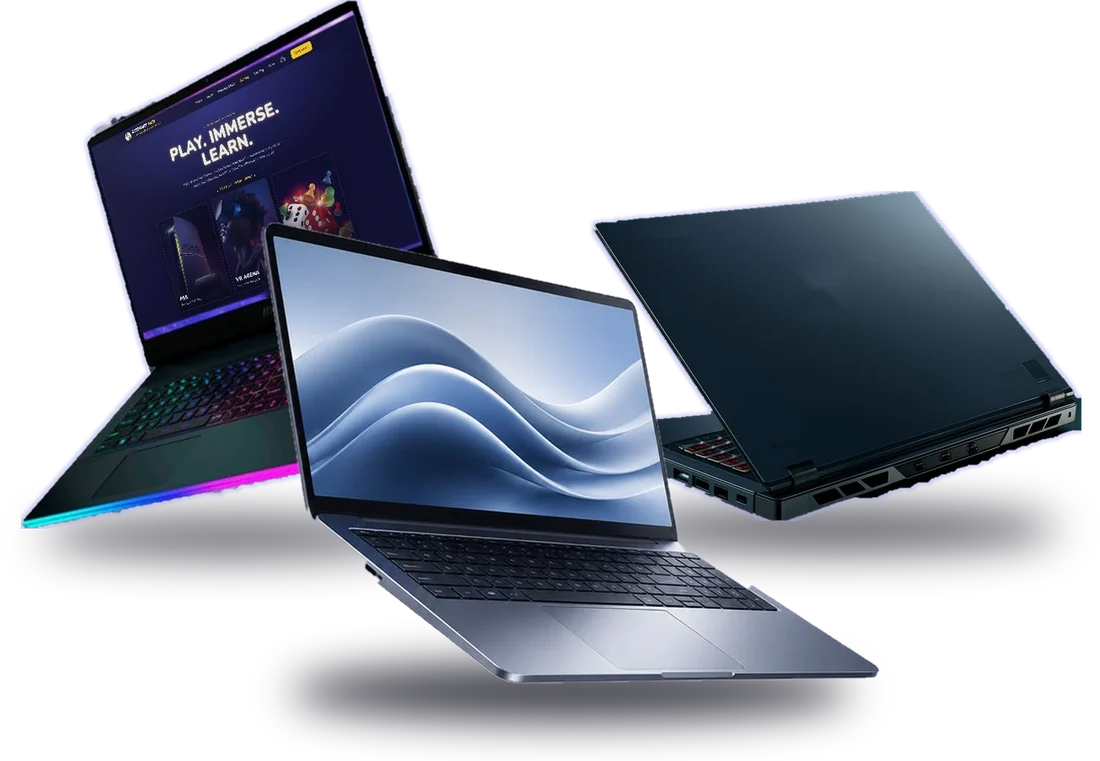
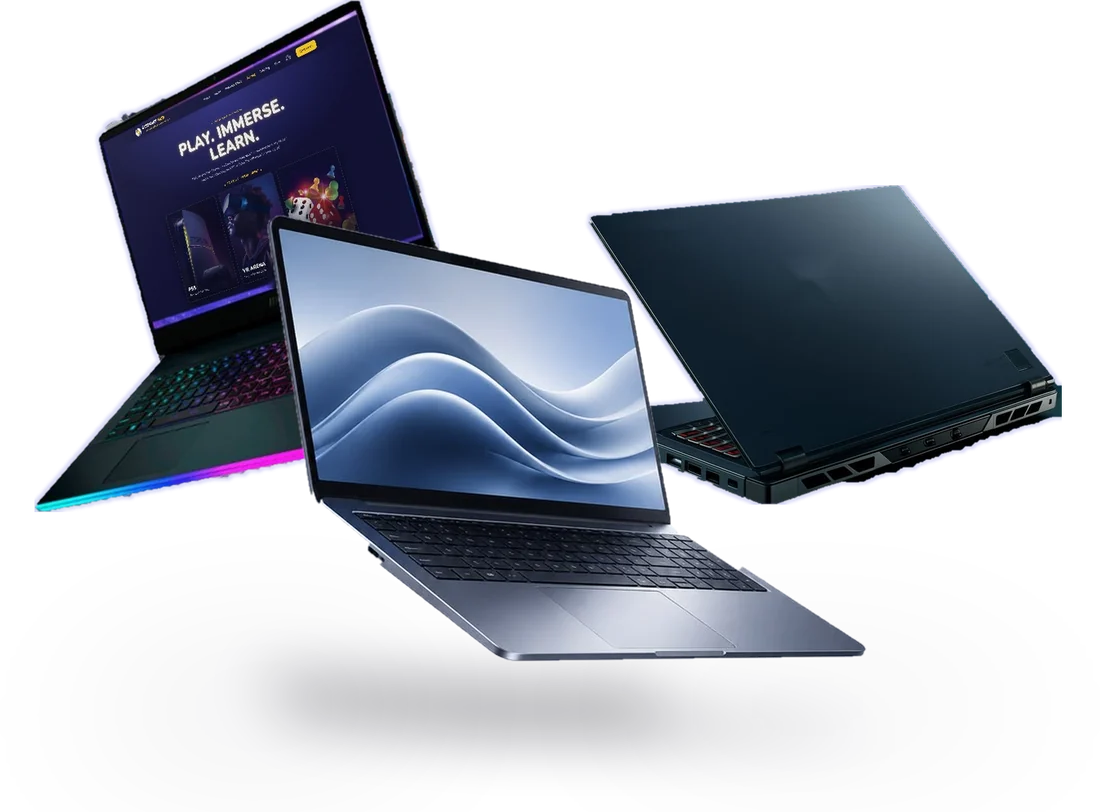
Shop hero: natural shadows, swoosh behind the laptop display
- Removed the drawn podium and the oval shadows; each laptop now casts a
  faint, very soft shadow from its own silhouette, fainter the higher it
  floats.
- The brand swoosh sits inside the hero (it was stretched across the whole
  dark area so only a corner showed), running behind the laptops like the
  About page, and fades out at the bottom instead of ending in a hard line.
- Home hero's Shop screen re-shot to match.

Claude-Session: https://claude.ai/code/session_01V4AdRnaABNZnaBTZbbiHrp

diff --git a/public/assets/css/style.css b/public/assets/css/style.css
@@ -1411,11 +1411,11 @@ main:has(.page-hero) .page-hero + .section { padding-top: 64px; }
 }
 
 /* ============================================================
-   SHOP LANDING — dark top: hero with podium, category cards, promo
+   SHOP LANDING — dark top: hero with a floating laptop display, category cards, promo
    ============================================================ */
 .shop-dark { position: relative; overflow: hidden; isolation: isolate; color: #fff; padding-bottom: 64px;
     background: radial-gradient(ellipse 60% 55% at 78% 22%, rgba(52, 52, 138, 0.85), transparent 70%), linear-gradient(180deg, #14143A 0%, #0E0E24 100%); }
-.shop-dark .page-hero-swoosh { opacity: 0.7; }
+.shop-hero .page-hero-swoosh { z-index: -1; -webkit-mask-image: linear-gradient(180deg, #000 70%, transparent 100%); mask-image: linear-gradient(180deg, #000 70%, transparent 100%); }
 .shop-kicker { display: inline-flex; align-items: center; gap: 14px; font: 600 0.8rem var(--font-mono); letter-spacing: 0.14em; text-transform: uppercase; color: var(--brand-gold); }
 .shop-kicker::after { content: ""; width: 64px; height: 1px; background: currentColor; opacity: 0.6; }
 .shop-script { font-family: "Kaushan Script", var(--font-display); font-weight: 400; color: var(--brand-gold); }
@@ -1423,7 +1423,7 @@ main:has(.page-hero) .page-hero + .section { padding-top: 64px; }
 .shop-pill span { margin-left: 6px; display: inline-block; transition: transform 0.2s ease; }
 .shop-pill:hover span { transform: translateX(3px); }
 
-.shop-hero { padding: 64px 0 24px; }
+.shop-hero { position: relative; isolation: isolate; padding: 64px 0 24px; }
 .shop-hero-inner { display: grid; grid-template-columns: minmax(0, 1fr) minmax(0, 1.05fr); gap: 40px; align-items: center; }
 .shop-hero h1 { color: #fff; margin: 18px 0 30px; font-size: clamp(2.8rem, 5.8vw, 4.6rem); line-height: 1.02; letter-spacing: -0.01em; }
 .shop-hero-line { display: block; }
@@ -1447,8 +1447,6 @@ main:has(.page-hero) .page-hero + .section { padding-top: 64px; }
 
 .shop-hero-stage { position: relative; height: 480px; }
 .shop-hero-ring { position: absolute; left: 50%; top: 46%; width: min(400px, 82%); aspect-ratio: 1; transform: translate(-50%, -50%); border-radius: 50%; border: 2px solid rgba(247, 203, 30, 0.55); box-shadow: 0 0 40px rgba(247, 203, 30, 0.25), inset 0 0 60px rgba(247, 203, 30, 0.12); background: radial-gradient(circle, rgba(52, 52, 138, 0.55), transparent 70%); }
-.shop-hero-podium { position: absolute; left: 50%; bottom: 34px; width: 78%; height: 74px; transform: translateX(-50%); border-radius: 50%; background: radial-gradient(ellipse at 50% 30%, #3A3A92 0%, #1C1C55 55%, #0E0E2A 100%); box-shadow: 0 30px 50px rgba(0, 0, 0, 0.55), inset 0 2px 0 rgba(255, 255, 255, 0.12); }
-.shop-hero-podium::before { content: ""; position: absolute; left: 6%; right: 6%; top: -14px; height: 40px; border-radius: 50%; background: radial-gradient(ellipse at 50% 40%, #4A4AA6, #26266E 70%); box-shadow: 0 0 0 1px rgba(247, 203, 30, 0.25); }
 .shop-hero-product { position: absolute; left: 50%; bottom: 40px; width: 112%; transform: translateX(-50%); animation: shop-float 6s ease-in-out infinite; }
 .shop-hero-product picture, .shop-hero-product img { display: block; width: 100%; height: auto; }
 @keyframes shop-float { 0%, 100% { transform: translate(-50%, 0); } 50% { transform: translate(-50%, -10px); } }
@@ -1487,7 +1485,6 @@ main:has(.page-hero) .page-hero + .section { padding-top: 64px; }
 @media (max-width: 640px) {
     .shop-hero { padding-top: 40px; }
     .shop-hero-stage { height: 280px; }
-    .shop-hero-podium { height: 54px; bottom: 20px; }
     .shop-hero-product { bottom: 30px; width: 104%; }
     .shop-promo { grid-template-columns: 1fr; }
     .shop-promo-art { min-height: 200px; }

diff --git a/app/views/pages/shop.php b/app/views/pages/shop.php
@@ -29,9 +29,9 @@ $promoUrl = site('shop.promo_url');
 $promoHref = preg_match('#^https?://#i', $promoUrl) ? $promoUrl : path(ltrim($promoUrl, '/'));
 ?>
 <div class="shop-dark">
-<?php require __DIR__ . '/../partials/page_hero_swoosh.php'; ?>
 
 <section class="shop-hero">
+    <?php require __DIR__ . '/../partials/page_hero_swoosh.php'; ?>
     <div class="container shop-hero-inner">
         <div class="shop-hero-copy">
             <span class="shop-kicker"><?= e(site('shop.eyebrow')) ?></span>
@@ -60,7 +60,6 @@ $promoHref = preg_match('#^https?://#i', $promoUrl) ? $promoUrl : path(ltrim($pr
         </div>
         <div class="shop-hero-stage">
             <span class="shop-hero-ring" aria-hidden="true"></span>
-            <span class="shop-hero-podium" aria-hidden="true"></span>
             <div class="shop-hero-product">
                 <?= site_picture('shop.hero_image', 'Three laptops on display: a slim silver laptop in front, a gaming laptop showing the Syspoint gaming page and a dark gaming laptop behind', ['width' => 1100, 'height' => 761, 'fetchpriority' => 'high']) ?>
             </div>
